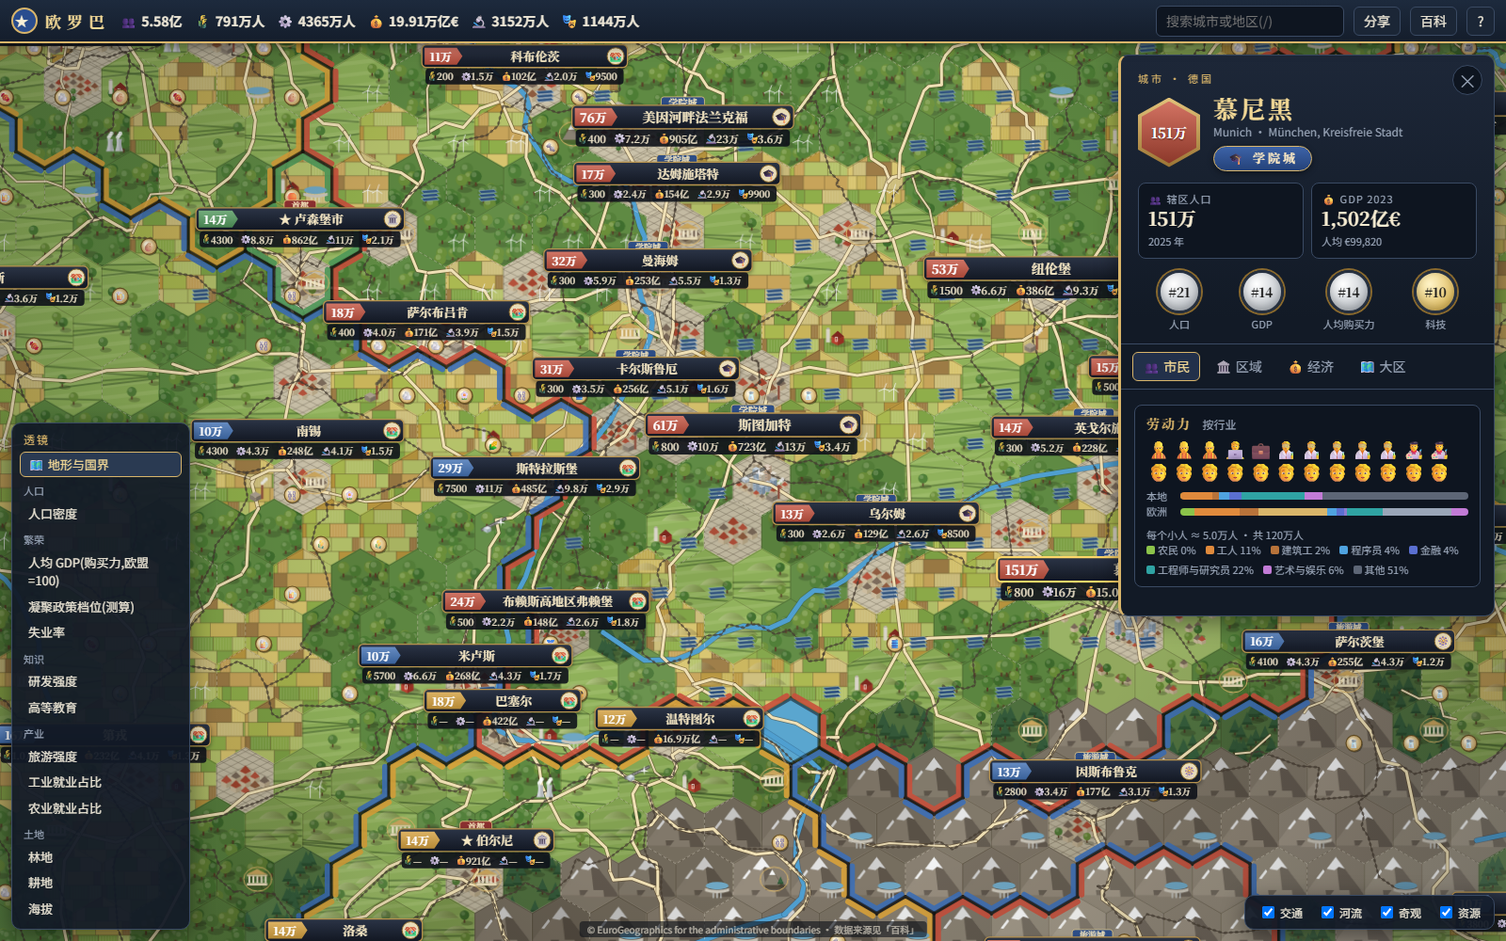
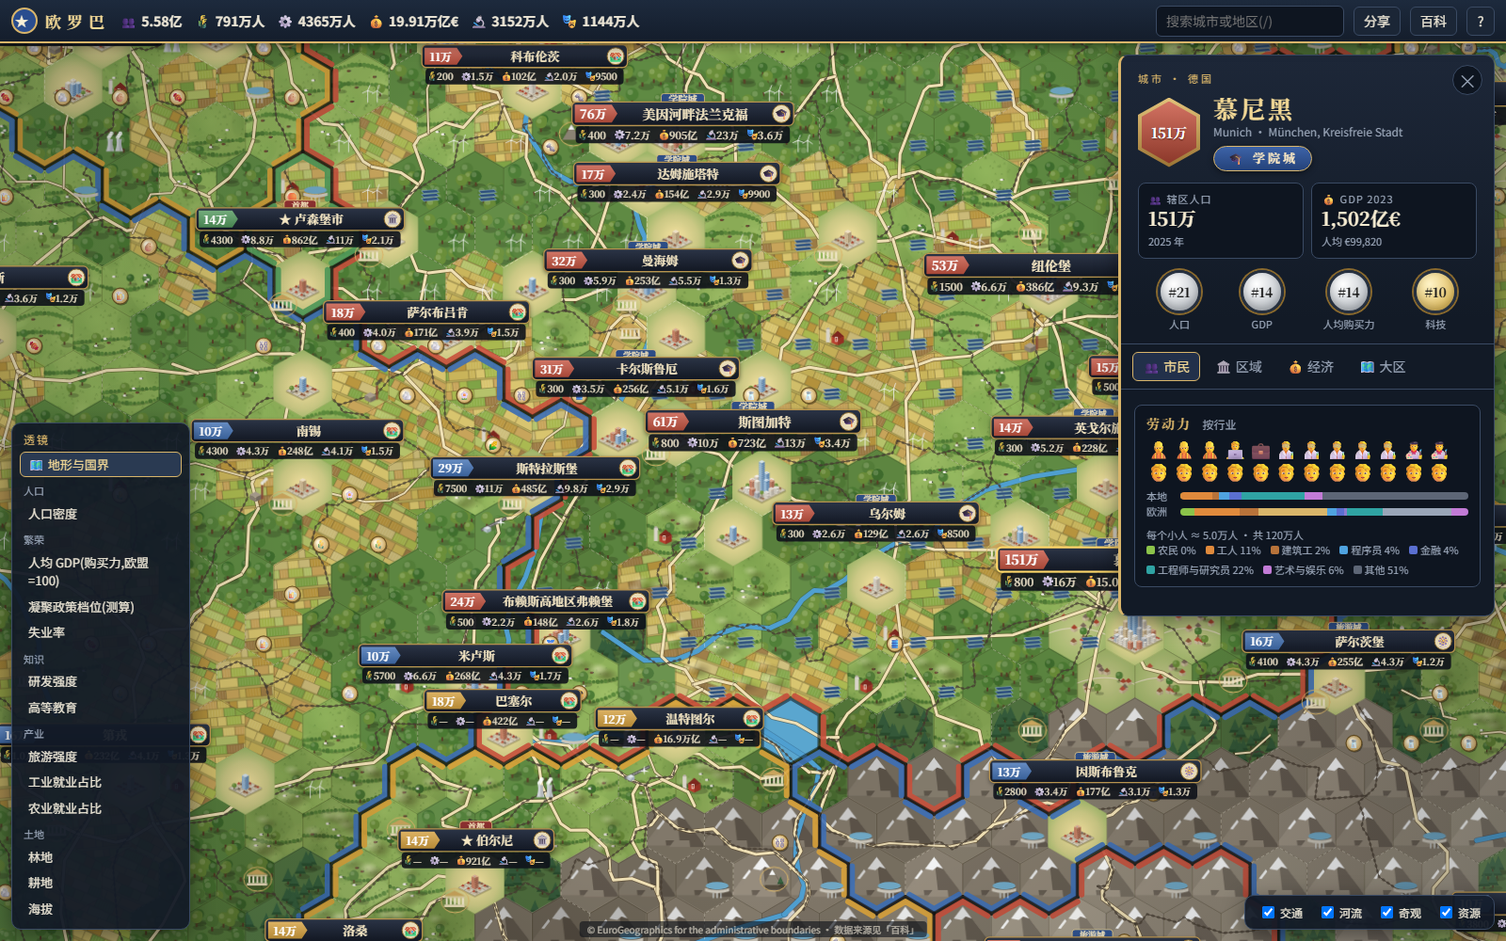
城市格重画:暖色光晕+等距街区平台+带窗格的楼宇、玻璃高楼与地标塔、外圈红顶小屋,高楼可伸出格外;同格多城取最大者;奇观避开城市楼群;大城市旗标抬高

diff --git a/site/js/sprites.js b/site/js/sprites.js
@@ -150,39 +150,95 @@ function drawHills(g, u, r) {
 
 // ---------- 城市 ----------
 export function cityTier(pop) { return pop >= 3e6 ? 4 : pop >= 1e6 ? 3 : pop >= 4e5 ? 2 : pop >= 2e5 ? 1 : 0; }
-function drawCity(g, u, r, tier) {
-  // 地面
-  g.fillStyle = "#c9c0a8"; g.fillRect(-u * 2, -u * 2, u * 4, u * 4);
-  g.strokeStyle = "rgba(120,110,90,.5)"; g.lineWidth = Math.max(0.6, u * 0.025);
-  for (let k = -4; k <= 4; k++) { g.beginPath(); g.moveTo(-u * 1.2, k * u * 0.22 - u * 0.6); g.lineTo(u * 1.2, k * u * 0.22 + u * 0.6); g.stroke(); g.beginPath(); g.moveTo(-u * 1.2, k * u * 0.22 + u * 0.6); g.lineTo(u * 1.2, k * u * 0.22 - u * 0.6); g.stroke(); }
-  // 等距地块,中心高、外圈低
-  const lots = [];
-  const n = [3, 4, 5, 5, 6][tier];
-  const step = (u * 1.5) / n;
-  for (let i = 0; i < n; i++) for (let j = 0; j < n; j++) {
-    const x = (i - j) * step * 0.5 * 1.15, y = (i + j - (n - 1)) * step * 0.29 + u * 0.15;
-    if (Math.hypot(x / u, y / u * 1.6) > 0.82) continue;
-    const dc = Math.hypot(x, y * 1.8) / u;
-    lots.push([x, y, dc]);
+// 建筑配色:顶 / 左面 / 右面 / 窗
+const BLD = {
+  glass: ["#d7e6f1", "#86a9c8", "#5f84a9", "rgba(235,248,255,.75)"],
+  white: ["#f3efe6", "#dad3c5", "#bdb4a4", "rgba(80,100,130,.55)"],
+  sand: ["#efe1c6", "#d2bd98", "#b49f7c", "rgba(90,80,60,.5)"],
+  brick: ["#e0aa8c", "#bd765c", "#9c5d47", "rgba(255,235,200,.55)"],
+  grey: ["#d9dbdd", "#b0b4b8", "#90959a", "rgba(60,75,95,.55)"],
+};
+// 在等距方块的两个侧面上画窗户格(斜线虚线)
+function windows(g, x, y, w, h, col, u) {
+  const d = w / 2, q = w / 4, gap = Math.max(2.2, u * 0.055);
+  g.strokeStyle = col; g.lineWidth = Math.max(0.6, u * 0.014);
+  g.setLineDash([Math.max(0.8, w * 0.07), Math.max(0.8, w * 0.06)]);
+  for (let k = gap * 0.8; k < h - gap * 0.4; k += gap) {
+    g.beginPath(); g.moveTo(x - d * 0.88, y - k + 0.06 * q); g.lineTo(x - d * 0.12, y + q * 0.88 - k); g.stroke();
+    g.beginPath(); g.moveTo(x + d * 0.12, y + q * 0.88 - k); g.lineTo(x + d * 0.88, y - k + 0.06 * q); g.stroke();
   }
-  lots.sort((a, b) => a[1] - b[1]);
-  const maxH = [0.25, 0.4, 0.6, 0.85, 1.15][tier] * u;
-  const palettes = [["#e9e4d8", "#c9c2b2", "#b3ab99"], ["#d9cbb3", "#b9a98d", "#a39276"], ["#c8d4de", "#9fb1c0", "#8799aa"], ["#e2d2c2", "#c1a991", "#a88f78"], ["#b8c7d6", "#8ea2b6", "#768aa0"]];
-  for (const [x, y, dc] of lots) {
-    const w = step * (0.62 + r() * 0.15);
-    if (r() < 0.12 && dc > 0.35) { tree(g, x, y + w * 0.2, w * 0.7, r, false); continue; }
-    const tall = Math.max(0.15, 1 - dc * 1.15) * maxH * (0.45 + r() * 0.75);
-    if (tier <= 1 || tall < u * 0.18) { house(g, x, y, w * 0.9, r); continue; }
-    const p = palettes[Math.floor(r() * palettes.length)];
-    box(g, x, y, w, tall, p[0], p[1], p[2]);
-    // 窗户条
-    if (u > 18) { g.fillStyle = "rgba(60,80,110,.35)"; for (let k = w * 0.4; k < tall - 2; k += Math.max(2, u * 0.08)) g.fillRect(x - w / 2 + w * 0.12, y - k, w * 0.3, Math.max(0.6, u * 0.02)); }
+  g.setLineDash([]);
+}
+function building(g, x, y, w, h, pal, u, r, glassStripe) {
+  const P = BLD[pal];
+  box(g, x, y, w, h, P[0], P[1], P[2]);
+  if (u >= 12 && h > w * 0.35) windows(g, x, y, w, h, P[3], u);
+  if (glassStripe) { g.fillStyle = "rgba(255,255,255,.22)"; g.beginPath(); g.moveTo(x - w * 0.32, y - h + w * 0.08); g.lineTo(x - w * 0.22, y - h + w * 0.13); g.lineTo(x - w * 0.22, y - w * 0.13 + w * 0.25); g.lineTo(x - w * 0.32, y + w * 0.08 - w * 0.0); g.closePath(); g.fill(); }
+  // 屋顶设备
+  if (u >= 16 && r() < 0.6) { const s = w * 0.22; box(g, x + (r() - 0.5) * w * 0.3, y - h + (r() - 0.5) * w * 0.1, s, s * 0.35, "#c9ccd0", "#a3a7ab", "#8a8e93"); }
+}
+function drawCity(g, u, r, tier) {
+  // 1) 地面:六边形内铺周边草地,中心一圈暖色光晕(裁在格内)
+  g.save(); hexClip(g, u * 1.02); g.clip();
+  g.fillStyle = "#9fb66a"; g.fillRect(-u * 2, -u * 2, u * 4, u * 4);
+  const glow = g.createRadialGradient(0, u * 0.1, u * 0.1, 0, u * 0.1, u * 1.05);
+  glow.addColorStop(0, "rgba(246,226,160,.95)"); glow.addColorStop(0.6, "rgba(232,212,150,.6)"); glow.addColorStop(1, "rgba(232,212,150,0)");
+  g.fillStyle = glow; g.fillRect(-u * 2, -u * 2, u * 4, u * 4);
+  g.restore();
+  // 2) 等距街区平台(菱形),大小随城市档位
+  const S = u * [0.5, 0.6, 0.72, 0.82, 0.92][tier], cyp = u * 0.22; // 半宽、平台中心 y
+  const dia = (s, yc) => { g.beginPath(); g.moveTo(0, yc - s / 2); g.lineTo(s, yc); g.lineTo(0, yc + s / 2); g.lineTo(-s, yc); g.closePath(); };
+  g.fillStyle = "rgba(40,35,20,.22)"; dia(S * 1.04, cyp + u * 0.04); g.fill();       // 平台阴影
+  g.fillStyle = "#d6cfbd"; dia(S, cyp); g.fill();
+  g.strokeStyle = "rgba(120,110,90,.6)"; g.lineWidth = Math.max(0.6, u * 0.012); g.stroke();
+  const n = [3, 4, 5, 6, 7][tier];
+  // 街道网格
+  g.strokeStyle = "rgba(150,140,120,.85)"; g.lineWidth = Math.max(0.7, u * 0.018);
+  for (let k = 1; k < n; k++) {
+    const t = k / n;
+    g.beginPath(); g.moveTo(-S + S * t, cyp - (S / 2) * t); g.lineTo(S * t, cyp + S / 2 - (S / 2) * t); g.stroke();
+    g.beginPath(); g.moveTo(S * t, cyp - S / 2 + (S / 2) * t); g.lineTo(-S + S * t, cyp + (S / 2) * t); g.stroke();
+  }
+  // 3) 地块:按 i+j 从后往前画
+  const lw = (2 * S) / n, lh = S / n;
+  const lots = [];
+  for (let i = 0; i < n; i++) for (let j = 0; j < n; j++) {
+    const x = (i - j) * (lw / 2), y = cyp - S / 2 + (i + j + 1) * (lh / 2);
+    const dc = Math.hypot((i - (n - 1) / 2) / n, (j - (n - 1) / 2) / n) * 2; // 0 中心 → ~1.4 角
+    lots.push({ x, y, dc, o: i + j });
+  }
+  lots.sort((a, b) => a.o - b.o);
+  const maxH = u * [0.32, 0.5, 0.75, 1.05, 1.4][tier];
+  const fw = lw * 0.62;
+  let spire = tier >= 3;
+  for (const L of lots) {
+    const roll = r();
+    if (L.dc > 0.55 && roll < 0.12) { tree(g, L.x, L.y + lh * 0.15, fw * 0.75, r, false); continue; }
+    if (L.dc > 1.0 || (tier <= 1 && L.dc > 0.5)) { house(g, L.x - fw * 0.15, L.y, fw * 0.55, r); if (r() < 0.6) house(g, L.x + fw * 0.2, L.y + lh * 0.12, fw * 0.5, r); continue; }
+    const core = Math.max(0, 1 - L.dc * 0.9);
+    let h = maxH * (0.18 + core * core * (0.55 + r() * 0.6));
+    let pal = core > 0.55 && r() < 0.6 ? "glass" : ["white", "sand", "brick", "grey", "white"][Math.floor(r() * 5)];
+    if (spire && L.dc < 0.35) { // 地标塔
+      spire = false; h = maxH * 1.35; pal = "glass";
+      building(g, L.x, L.y, fw * 0.8, h, pal, u, r, true);
+      g.strokeStyle = "#8a96a3"; g.lineWidth = Math.max(0.8, u * 0.015); g.beginPath(); g.moveTo(L.x, L.y - h - fw * 0.2); g.lineTo(L.x, L.y - h - fw * 0.2 - u * 0.18); g.stroke();
+      continue;
+    }
+    building(g, L.x, L.y, fw, h, pal, u, r, pal === "glass");
+    if (h < maxH * 0.35 && r() < 0.5) building(g, L.x + fw * 0.22, L.y + lh * 0.18, fw * 0.5, h * 0.6, "white", u, r, false);
   }
 }
 function drawSuburb(g, u, r) {
-  g.fillStyle = "#9db667"; g.fillRect(-u * 2, -u * 2, u * 4, u * 4);
-  const pts = []; for (let k = 0; k < 9; k++) pts.push([(r() - 0.5) * u * 1.3, (r() - 0.5) * u * 1.1]);
-  pts.sort((a, b) => a[1] - b[1]).forEach(([x, y], k) => (k % 3 === 2 ? tree(g, x, y, u * 0.28, r, false) : house(g, x, y, u * 0.24, r)));
+  g.save(); hexClip(g, u * 1.02); g.clip();
+  g.fillStyle = "#9fb66a"; g.fillRect(-u * 2, -u * 2, u * 4, u * 4);
+  const glow = g.createRadialGradient(0, 0, 0, 0, 0, u); glow.addColorStop(0, "rgba(236,222,170,.55)"); glow.addColorStop(1, "rgba(236,222,170,0)");
+  g.fillStyle = glow; g.fillRect(-u * 2, -u * 2, u * 4, u * 4);
+  // 弯曲的小街
+  g.strokeStyle = "rgba(225,215,190,.9)"; g.lineWidth = Math.max(0.8, u * 0.03);
+  g.beginPath(); g.moveTo(-u, u * 0.1); g.quadraticCurveTo(0, -u * 0.35, u, u * 0.15); g.stroke();
+  const pts = []; for (let k = 0; k < 12; k++) pts.push([(r() - 0.5) * u * 1.35, (r() - 0.5) * u * 1.2]);
+  pts.sort((a, b) => a[1] - b[1]).forEach(([x, y], k) => (k % 4 === 3 ? tree(g, x, y, u * 0.24, r, false) : house(g, x, y, u * 0.2, r)));
+  g.restore();
 }
 
 // ---------- 设施与奇观(不裁成六边形的小物件,画在格内偏一侧) ----------
@@ -247,7 +303,8 @@ export function sprite(type, variant, u) {
   const key = `${type}|${variant}|${b}`;
   let c = cache.get(key);
   if (c) return c;
-  const pad = 1.2;
+  const isCity = type.startsWith("city");
+  const pad = isCity ? 2.4 : 1.2;
   const W = SQ3 * b * pad, H = 2 * b * pad;
   const isFacility = ["airport", "port", "nuclear", "coal", "gas", "oil", "hydro", "wind", "solar", "wonder", "wonderNatural", "barn"].includes(type);
   c = canvas(W, H);
@@ -257,7 +314,7 @@ export function sprite(type, variant, u) {
   if (isFacility) drawFacility(g, type, b, r);
   else {
     g.save(); hexClip(g, b * 1.02); g.clip();
-    if (type.startsWith("city")) drawCity(g, b, r, +type.slice(4));
+    if (isCity) { g.restore(); drawCity(g, b, r, +type.slice(4)); g.save(); }
     else if (type === "suburb") drawSuburb(g, b, r);
     else if (type.endsWith("+hills")) { drawTerrain(g, type.replace("+hills", ""), b, r); drawHills(g, b, r); }
     else drawTerrain(g, type, b, r);

diff --git a/skills/real-data-4x-map/templates/site/js/sprites.js b/skills/real-data-4x-map/templates/site/js/sprites.js
@@ -150,39 +150,95 @@ function drawHills(g, u, r) {
 
 // ---------- 城市 ----------
 export function cityTier(pop) { return pop >= 3e6 ? 4 : pop >= 1e6 ? 3 : pop >= 4e5 ? 2 : pop >= 2e5 ? 1 : 0; }
-function drawCity(g, u, r, tier) {
-  // 地面
-  g.fillStyle = "#c9c0a8"; g.fillRect(-u * 2, -u * 2, u * 4, u * 4);
-  g.strokeStyle = "rgba(120,110,90,.5)"; g.lineWidth = Math.max(0.6, u * 0.025);
-  for (let k = -4; k <= 4; k++) { g.beginPath(); g.moveTo(-u * 1.2, k * u * 0.22 - u * 0.6); g.lineTo(u * 1.2, k * u * 0.22 + u * 0.6); g.stroke(); g.beginPath(); g.moveTo(-u * 1.2, k * u * 0.22 + u * 0.6); g.lineTo(u * 1.2, k * u * 0.22 - u * 0.6); g.stroke(); }
-  // 等距地块,中心高、外圈低
-  const lots = [];
-  const n = [3, 4, 5, 5, 6][tier];
-  const step = (u * 1.5) / n;
-  for (let i = 0; i < n; i++) for (let j = 0; j < n; j++) {
-    const x = (i - j) * step * 0.5 * 1.15, y = (i + j - (n - 1)) * step * 0.29 + u * 0.15;
-    if (Math.hypot(x / u, y / u * 1.6) > 0.82) continue;
-    const dc = Math.hypot(x, y * 1.8) / u;
-    lots.push([x, y, dc]);
+// 建筑配色:顶 / 左面 / 右面 / 窗
+const BLD = {
+  glass: ["#d7e6f1", "#86a9c8", "#5f84a9", "rgba(235,248,255,.75)"],
+  white: ["#f3efe6", "#dad3c5", "#bdb4a4", "rgba(80,100,130,.55)"],
+  sand: ["#efe1c6", "#d2bd98", "#b49f7c", "rgba(90,80,60,.5)"],
+  brick: ["#e0aa8c", "#bd765c", "#9c5d47", "rgba(255,235,200,.55)"],
+  grey: ["#d9dbdd", "#b0b4b8", "#90959a", "rgba(60,75,95,.55)"],
+};
+// 在等距方块的两个侧面上画窗户格(斜线虚线)
+function windows(g, x, y, w, h, col, u) {
+  const d = w / 2, q = w / 4, gap = Math.max(2.2, u * 0.055);
+  g.strokeStyle = col; g.lineWidth = Math.max(0.6, u * 0.014);
+  g.setLineDash([Math.max(0.8, w * 0.07), Math.max(0.8, w * 0.06)]);
+  for (let k = gap * 0.8; k < h - gap * 0.4; k += gap) {
+    g.beginPath(); g.moveTo(x - d * 0.88, y - k + 0.06 * q); g.lineTo(x - d * 0.12, y + q * 0.88 - k); g.stroke();
+    g.beginPath(); g.moveTo(x + d * 0.12, y + q * 0.88 - k); g.lineTo(x + d * 0.88, y - k + 0.06 * q); g.stroke();
   }
-  lots.sort((a, b) => a[1] - b[1]);
-  const maxH = [0.25, 0.4, 0.6, 0.85, 1.15][tier] * u;
-  const palettes = [["#e9e4d8", "#c9c2b2", "#b3ab99"], ["#d9cbb3", "#b9a98d", "#a39276"], ["#c8d4de", "#9fb1c0", "#8799aa"], ["#e2d2c2", "#c1a991", "#a88f78"], ["#b8c7d6", "#8ea2b6", "#768aa0"]];
-  for (const [x, y, dc] of lots) {
-    const w = step * (0.62 + r() * 0.15);
-    if (r() < 0.12 && dc > 0.35) { tree(g, x, y + w * 0.2, w * 0.7, r, false); continue; }
-    const tall = Math.max(0.15, 1 - dc * 1.15) * maxH * (0.45 + r() * 0.75);
-    if (tier <= 1 || tall < u * 0.18) { house(g, x, y, w * 0.9, r); continue; }
-    const p = palettes[Math.floor(r() * palettes.length)];
-    box(g, x, y, w, tall, p[0], p[1], p[2]);
-    // 窗户条
-    if (u > 18) { g.fillStyle = "rgba(60,80,110,.35)"; for (let k = w * 0.4; k < tall - 2; k += Math.max(2, u * 0.08)) g.fillRect(x - w / 2 + w * 0.12, y - k, w * 0.3, Math.max(0.6, u * 0.02)); }
+  g.setLineDash([]);
+}
+function building(g, x, y, w, h, pal, u, r, glassStripe) {
+  const P = BLD[pal];
+  box(g, x, y, w, h, P[0], P[1], P[2]);
+  if (u >= 12 && h > w * 0.35) windows(g, x, y, w, h, P[3], u);
+  if (glassStripe) { g.fillStyle = "rgba(255,255,255,.22)"; g.beginPath(); g.moveTo(x - w * 0.32, y - h + w * 0.08); g.lineTo(x - w * 0.22, y - h + w * 0.13); g.lineTo(x - w * 0.22, y - w * 0.13 + w * 0.25); g.lineTo(x - w * 0.32, y + w * 0.08 - w * 0.0); g.closePath(); g.fill(); }
+  // 屋顶设备
+  if (u >= 16 && r() < 0.6) { const s = w * 0.22; box(g, x + (r() - 0.5) * w * 0.3, y - h + (r() - 0.5) * w * 0.1, s, s * 0.35, "#c9ccd0", "#a3a7ab", "#8a8e93"); }
+}
+function drawCity(g, u, r, tier) {
+  // 1) 地面:六边形内铺周边草地,中心一圈暖色光晕(裁在格内)
+  g.save(); hexClip(g, u * 1.02); g.clip();
+  g.fillStyle = "#9fb66a"; g.fillRect(-u * 2, -u * 2, u * 4, u * 4);
+  const glow = g.createRadialGradient(0, u * 0.1, u * 0.1, 0, u * 0.1, u * 1.05);
+  glow.addColorStop(0, "rgba(246,226,160,.95)"); glow.addColorStop(0.6, "rgba(232,212,150,.6)"); glow.addColorStop(1, "rgba(232,212,150,0)");
+  g.fillStyle = glow; g.fillRect(-u * 2, -u * 2, u * 4, u * 4);
+  g.restore();
+  // 2) 等距街区平台(菱形),大小随城市档位
+  const S = u * [0.5, 0.6, 0.72, 0.82, 0.92][tier], cyp = u * 0.22; // 半宽、平台中心 y
+  const dia = (s, yc) => { g.beginPath(); g.moveTo(0, yc - s / 2); g.lineTo(s, yc); g.lineTo(0, yc + s / 2); g.lineTo(-s, yc); g.closePath(); };
+  g.fillStyle = "rgba(40,35,20,.22)"; dia(S * 1.04, cyp + u * 0.04); g.fill();       // 平台阴影
+  g.fillStyle = "#d6cfbd"; dia(S, cyp); g.fill();
+  g.strokeStyle = "rgba(120,110,90,.6)"; g.lineWidth = Math.max(0.6, u * 0.012); g.stroke();
+  const n = [3, 4, 5, 6, 7][tier];
+  // 街道网格
+  g.strokeStyle = "rgba(150,140,120,.85)"; g.lineWidth = Math.max(0.7, u * 0.018);
+  for (let k = 1; k < n; k++) {
+    const t = k / n;
+    g.beginPath(); g.moveTo(-S + S * t, cyp - (S / 2) * t); g.lineTo(S * t, cyp + S / 2 - (S / 2) * t); g.stroke();
+    g.beginPath(); g.moveTo(S * t, cyp - S / 2 + (S / 2) * t); g.lineTo(-S + S * t, cyp + (S / 2) * t); g.stroke();
+  }
+  // 3) 地块:按 i+j 从后往前画
+  const lw = (2 * S) / n, lh = S / n;
+  const lots = [];
+  for (let i = 0; i < n; i++) for (let j = 0; j < n; j++) {
+    const x = (i - j) * (lw / 2), y = cyp - S / 2 + (i + j + 1) * (lh / 2);
+    const dc = Math.hypot((i - (n - 1) / 2) / n, (j - (n - 1) / 2) / n) * 2; // 0 中心 → ~1.4 角
+    lots.push({ x, y, dc, o: i + j });
+  }
+  lots.sort((a, b) => a.o - b.o);
+  const maxH = u * [0.32, 0.5, 0.75, 1.05, 1.4][tier];
+  const fw = lw * 0.62;
+  let spire = tier >= 3;
+  for (const L of lots) {
+    const roll = r();
+    if (L.dc > 0.55 && roll < 0.12) { tree(g, L.x, L.y + lh * 0.15, fw * 0.75, r, false); continue; }
+    if (L.dc > 1.0 || (tier <= 1 && L.dc > 0.5)) { house(g, L.x - fw * 0.15, L.y, fw * 0.55, r); if (r() < 0.6) house(g, L.x + fw * 0.2, L.y + lh * 0.12, fw * 0.5, r); continue; }
+    const core = Math.max(0, 1 - L.dc * 0.9);
+    let h = maxH * (0.18 + core * core * (0.55 + r() * 0.6));
+    let pal = core > 0.55 && r() < 0.6 ? "glass" : ["white", "sand", "brick", "grey", "white"][Math.floor(r() * 5)];
+    if (spire && L.dc < 0.35) { // 地标塔
+      spire = false; h = maxH * 1.35; pal = "glass";
+      building(g, L.x, L.y, fw * 0.8, h, pal, u, r, true);
+      g.strokeStyle = "#8a96a3"; g.lineWidth = Math.max(0.8, u * 0.015); g.beginPath(); g.moveTo(L.x, L.y - h - fw * 0.2); g.lineTo(L.x, L.y - h - fw * 0.2 - u * 0.18); g.stroke();
+      continue;
+    }
+    building(g, L.x, L.y, fw, h, pal, u, r, pal === "glass");
+    if (h < maxH * 0.35 && r() < 0.5) building(g, L.x + fw * 0.22, L.y + lh * 0.18, fw * 0.5, h * 0.6, "white", u, r, false);
   }
 }
 function drawSuburb(g, u, r) {
-  g.fillStyle = "#9db667"; g.fillRect(-u * 2, -u * 2, u * 4, u * 4);
-  const pts = []; for (let k = 0; k < 9; k++) pts.push([(r() - 0.5) * u * 1.3, (r() - 0.5) * u * 1.1]);
-  pts.sort((a, b) => a[1] - b[1]).forEach(([x, y], k) => (k % 3 === 2 ? tree(g, x, y, u * 0.28, r, false) : house(g, x, y, u * 0.24, r)));
+  g.save(); hexClip(g, u * 1.02); g.clip();
+  g.fillStyle = "#9fb66a"; g.fillRect(-u * 2, -u * 2, u * 4, u * 4);
+  const glow = g.createRadialGradient(0, 0, 0, 0, 0, u); glow.addColorStop(0, "rgba(236,222,170,.55)"); glow.addColorStop(1, "rgba(236,222,170,0)");
+  g.fillStyle = glow; g.fillRect(-u * 2, -u * 2, u * 4, u * 4);
+  // 弯曲的小街
+  g.strokeStyle = "rgba(225,215,190,.9)"; g.lineWidth = Math.max(0.8, u * 0.03);
+  g.beginPath(); g.moveTo(-u, u * 0.1); g.quadraticCurveTo(0, -u * 0.35, u, u * 0.15); g.stroke();
+  const pts = []; for (let k = 0; k < 12; k++) pts.push([(r() - 0.5) * u * 1.35, (r() - 0.5) * u * 1.2]);
+  pts.sort((a, b) => a[1] - b[1]).forEach(([x, y], k) => (k % 4 === 3 ? tree(g, x, y, u * 0.24, r, false) : house(g, x, y, u * 0.2, r)));
+  g.restore();
 }
 
 // ---------- 设施与奇观(不裁成六边形的小物件,画在格内偏一侧) ----------
@@ -247,7 +303,8 @@ export function sprite(type, variant, u) {
   const key = `${type}|${variant}|${b}`;
   let c = cache.get(key);
   if (c) return c;
-  const pad = 1.2;
+  const isCity = type.startsWith("city");
+  const pad = isCity ? 2.4 : 1.2;
   const W = SQ3 * b * pad, H = 2 * b * pad;
   const isFacility = ["airport", "port", "nuclear", "coal", "gas", "oil", "hydro", "wind", "solar", "wonder", "wonderNatural", "barn"].includes(type);
   c = canvas(W, H);
@@ -257,7 +314,7 @@ export function sprite(type, variant, u) {
   if (isFacility) drawFacility(g, type, b, r);
   else {
     g.save(); hexClip(g, b * 1.02); g.clip();
-    if (type.startsWith("city")) drawCity(g, b, r, +type.slice(4));
+    if (isCity) { g.restore(); drawCity(g, b, r, +type.slice(4)); g.save(); }
     else if (type === "suburb") drawSuburb(g, b, r);
     else if (type.endsWith("+hills")) { drawTerrain(g, type.replace("+hills", ""), b, r); drawHills(g, b, r); }
     else drawTerrain(g, type, b, r);

diff --git a/site/js/render.js b/site/js/render.js
@@ -70,7 +70,8 @@ export function createRenderer(canvas, W, H) {
     const dzdy = (elevAt(nb(4)) + elevAt(nb(5)) - elevAt(nb(1)) - elevAt(nb(2))) / (4 * H.h);
     shade[i] = Math.max(0.7, Math.min(1.25, 1 - (0.008 * (dzdx + dzdy)) / Math.SQRT2));
   }
-  const cityByCell = new Map(cities.map((c) => [c.cell, c]));
+  const cityByCell = new Map(); // 同一格有多座城市时取人口最大的(巴黎格里还有布洛涅等)
+  for (const c of cities) if (!cityByCell.has(c.cell) || cityByCell.get(c.cell).pop < c.pop) cityByCell.set(c.cell, c);
   const suburb = new Uint8Array(N);
   for (const c of cities) if (c.cell >= 0 && cityTier(c.pop) >= 3) for (let n = 0; n < 6; n++) { const j = H.nb[c.cell * 6 + n]; if (land(j) && !cityByCell.has(j)) suburb[j] = 1; }
   const T = world.tables.terrain.map((t) => t.key);
@@ -98,7 +99,7 @@ export function createRenderer(canvas, W, H) {
     const sp = sprite(kind[i], (hash(i) * 4) | 0, u);
     const k = u / sp.u, w = sp.width * k, h = sp.height * k;
     g.drawImage(sp, x - w / 2, y - h / 2, w, h);
-    const sh = shade[i];
+    const sh = kind[i].startsWith("city") ? 1 : shade[i]; // 城市楼群伸出格外,不叠格内阴影
     if (sh < 0.99) { g.fillStyle = `rgba(20,15,5,${((1 - sh) * 1.3).toFixed(3)})`; hexFill(g, x, y, u * 1.02); }
     else if (sh > 1.01) { g.fillStyle = `rgba(255,250,225,${((sh - 1) * 0.9).toFixed(3)})`; hexFill(g, x, y, u * 1.02); }
     if (lensCol) { g.fillStyle = lensCol; g.globalAlpha = 0.82; hexFill(g, x, y, u * 1.02); g.globalAlpha = 1; }
@@ -195,7 +196,7 @@ export function createRenderer(canvas, W, H) {
       }
     }
     // 3b) 城市格压在交通线与河流之上:线路在城市边缘「进城」,楼群不被穿过
-    if (rpx >= 4) for (const c of cities) {
+    if (rpx >= 4) for (const c of cityByCell.values()) {
       if (c.cell < 0) continue;
       const [gx, gy] = H.center(c.cell); const x = X(gx), y = Y(gy);
       if (x < -rpx * 2 || y < -rpx * 2 || x > vw + rpx * 2 || y > vh + rpx * 2) continue;
@@ -247,7 +248,7 @@ export function createRenderer(canvas, W, H) {
     const free = (x, y, r) => !dots.some(([a, b, rr]) => Math.hypot(a - x, b - y) < r + rr);
     const put = (type, gx, gy, sz, info, offset = [0.38, 0.3]) => {
       const cl = H.locate(gx, gy);
-      if ((type === "wind" || type === "solar") && cityByCell.has(cl)) return; // 城市格只画楼群
+      if (cityByCell.has(cl)) { if (!type.startsWith("wonder")) return; offset = [-0.62, 0.6]; } // 城市格只画楼群;奇观挪到格子左下角
       const [hx, hy] = H.center(cl);
       const x = X(hx) + rpx * offset[0], y = Y(hy) + rpx * offset[1];
       if (x < -40 || y < -40 || x > vw + 40 || y > vh + 40 || !free(x, y, sz * 0.5)) return;
@@ -314,7 +315,7 @@ export function createRenderer(canvas, W, H) {
       if (!(c.capital || c.pop >= minPop)) continue;
       const tier = cityTier(c.pop);
       const fsz = [12, 12, 13, 14, 15][tier] + (rpx >= 14 ? 1 : 0);
-      const x = X(c.x), y0 = Y(c.y) - Math.max(12, rpx * 1.0) - (showYields ? fsz * 0.7 : 0);
+      const x = X(c.x), y0 = Y(c.y) - Math.max(12, rpx * (tier >= 3 ? 1.3 : tier >= 2 ? 1.1 : 1.0)) - (showYields ? fsz * 0.7 : 0); // 大城市楼更高,旗标抬高
       if (x < -160 || y0 < -50 || x > vw + 160 || y0 > vh + 50) continue;
       const tag = rpx >= 8 ? cityTag(c) : null;
       const popTxt = Math.round(c.pop / 1e4) + "万";

diff --git a/skills/real-data-4x-map/templates/site/js/render.js b/skills/real-data-4x-map/templates/site/js/render.js
@@ -70,7 +70,8 @@ export function createRenderer(canvas, W, H) {
     const dzdy = (elevAt(nb(4)) + elevAt(nb(5)) - elevAt(nb(1)) - elevAt(nb(2))) / (4 * H.h);
     shade[i] = Math.max(0.7, Math.min(1.25, 1 - (0.008 * (dzdx + dzdy)) / Math.SQRT2));
   }
-  const cityByCell = new Map(cities.map((c) => [c.cell, c]));
+  const cityByCell = new Map(); // 同一格有多座城市时取人口最大的(巴黎格里还有布洛涅等)
+  for (const c of cities) if (!cityByCell.has(c.cell) || cityByCell.get(c.cell).pop < c.pop) cityByCell.set(c.cell, c);
   const suburb = new Uint8Array(N);
   for (const c of cities) if (c.cell >= 0 && cityTier(c.pop) >= 3) for (let n = 0; n < 6; n++) { const j = H.nb[c.cell * 6 + n]; if (land(j) && !cityByCell.has(j)) suburb[j] = 1; }
   const T = world.tables.terrain.map((t) => t.key);
@@ -98,7 +99,7 @@ export function createRenderer(canvas, W, H) {
     const sp = sprite(kind[i], (hash(i) * 4) | 0, u);
     const k = u / sp.u, w = sp.width * k, h = sp.height * k;
     g.drawImage(sp, x - w / 2, y - h / 2, w, h);
-    const sh = shade[i];
+    const sh = kind[i].startsWith("city") ? 1 : shade[i]; // 城市楼群伸出格外,不叠格内阴影
     if (sh < 0.99) { g.fillStyle = `rgba(20,15,5,${((1 - sh) * 1.3).toFixed(3)})`; hexFill(g, x, y, u * 1.02); }
     else if (sh > 1.01) { g.fillStyle = `rgba(255,250,225,${((sh - 1) * 0.9).toFixed(3)})`; hexFill(g, x, y, u * 1.02); }
     if (lensCol) { g.fillStyle = lensCol; g.globalAlpha = 0.82; hexFill(g, x, y, u * 1.02); g.globalAlpha = 1; }
@@ -195,7 +196,7 @@ export function createRenderer(canvas, W, H) {
       }
     }
     // 3b) 城市格压在交通线与河流之上:线路在城市边缘「进城」,楼群不被穿过
-    if (rpx >= 4) for (const c of cities) {
+    if (rpx >= 4) for (const c of cityByCell.values()) {
       if (c.cell < 0) continue;
       const [gx, gy] = H.center(c.cell); const x = X(gx), y = Y(gy);
       if (x < -rpx * 2 || y < -rpx * 2 || x > vw + rpx * 2 || y > vh + rpx * 2) continue;
@@ -247,7 +248,7 @@ export function createRenderer(canvas, W, H) {
     const free = (x, y, r) => !dots.some(([a, b, rr]) => Math.hypot(a - x, b - y) < r + rr);
     const put = (type, gx, gy, sz, info, offset = [0.38, 0.3]) => {
       const cl = H.locate(gx, gy);
-      if ((type === "wind" || type === "solar") && cityByCell.has(cl)) return; // 城市格只画楼群
+      if (cityByCell.has(cl)) { if (!type.startsWith("wonder")) return; offset = [-0.62, 0.6]; } // 城市格只画楼群;奇观挪到格子左下角
       const [hx, hy] = H.center(cl);
       const x = X(hx) + rpx * offset[0], y = Y(hy) + rpx * offset[1];
       if (x < -40 || y < -40 || x > vw + 40 || y > vh + 40 || !free(x, y, sz * 0.5)) return;
@@ -314,7 +315,7 @@ export function createRenderer(canvas, W, H) {
       if (!(c.capital || c.pop >= minPop)) continue;
       const tier = cityTier(c.pop);
       const fsz = [12, 12, 13, 14, 15][tier] + (rpx >= 14 ? 1 : 0);
-      const x = X(c.x), y0 = Y(c.y) - Math.max(12, rpx * 1.0) - (showYields ? fsz * 0.7 : 0);
+      const x = X(c.x), y0 = Y(c.y) - Math.max(12, rpx * (tier >= 3 ? 1.3 : tier >= 2 ? 1.1 : 1.0)) - (showYields ? fsz * 0.7 : 0); // 大城市楼更高,旗标抬高
       if (x < -160 || y0 < -50 || x > vw + 160 || y0 > vh + 50) continue;
       const tag = rpx >= 8 ? cityTag(c) : null;
       const popTxt = Math.round(c.pop / 1e4) + "万";
